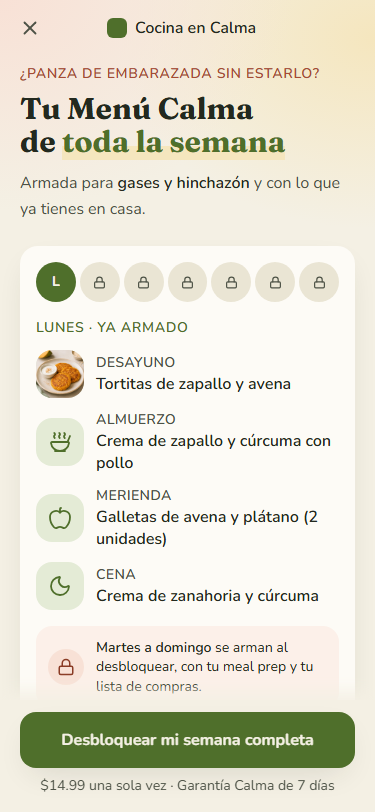
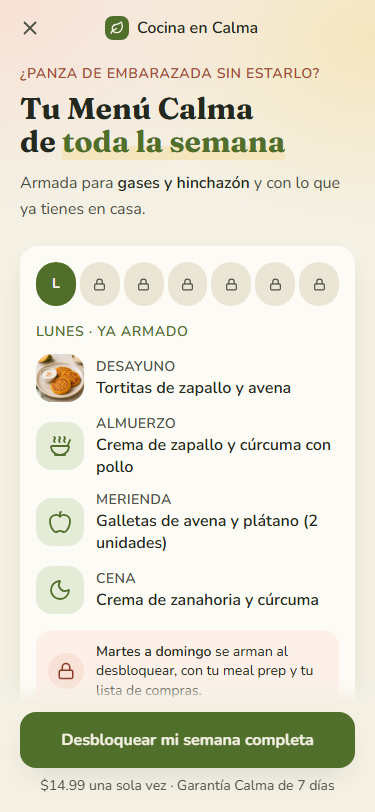
feat: pantalla de planes pulida (días tocables, insignia, hairline, isotipo); aún no aprobada por el revisor

diff --git a/components/paywall/Paywall.tsx b/components/paywall/Paywall.tsx
@@ -3,12 +3,12 @@
 // PANTALLA DE PLANES — plan único de pago único (FICHA-MERCADO: $14.99, sin suscripción, garantía de 7 días por Hotmart).
 // Misión: que la persona desbloquee su semana completa. Objeto principal: la semana con el lunes ya armado y
 // 6 días bloqueados (pérdida honesta). Copy trazado a FICHA-AVATAR (deseo: terminar el día ligera sin contar;
-// objeción "es caro" → precio por día + ancla de la consulta; objeción de confianza → garantía y pago por Hotmart).
+// objeción "es caro" → precio por día (el ancla con la tarifa de una consulta se añade cuando la dueña aporte la cifra real); objeción de confianza → garantía y pago por Hotmart).
 // El cobro real se conecta en la etapa de servicios externos: hasta entonces el botón NO simula un pago.
 
 import { useEffect, useState } from 'react';
 import { animate, AnimatePresence, motion, MotionConfig, useReducedMotion } from 'motion/react';
-import { Apple, Check, ChevronDown, Coffee, Loader2, Lock, Moon, ShieldCheck, Soup, X, type LucideIcon } from 'lucide-react';
+import { Apple, BadgeCheck, Check, ChevronDown, Coffee, Leaf, Loader2, Lock, Moon, Soup, X, type LucideIcon } from 'lucide-react';
 import { calcularRequerimientos, generarMenu, type Actividad, type Objetivo, type Sexo } from '@/lib/calculos';
 import { Sello } from '@/components/landing/Sello';
 import type { Comida, Receta, Sintoma } from '@/lib/recetas';
@@ -79,7 +79,7 @@ const BENEFICIOS = [
   'Tus 7 días con 4 comidas, ajustados a tu síntoma',
   'Meal prep de una sola tarde y lista de compras',
   '60 recetas antiinflamatorias con ingredientes de casa',
-  'Pagas una vez: sin renovaciones ni letra chica',
+  'Chequeo diario que ajusta tu menú de mañana',
 ];
 
 export function Paywall({ fotos }: { fotos: string[] }) {
@@ -88,6 +88,7 @@ export function Paywall({ fotos }: { fotos: string[] }) {
   const [aviso, setAviso] = useState('');
   const [cargando, setCargando] = useState(false);
   const [abierto, setAbierto] = useState<number | null>(null);
+  const [diaAviso, setDiaAviso] = useState(false);
 
   const sintomas = g.sintomas ?? [];
   const ingredientes = g.ingredientes ?? [];
@@ -157,7 +158,9 @@ export function Paywall({ fotos }: { fotos: string[] }) {
               <X size={22} aria-hidden="true" />
             </a>
             <span className="flex items-center gap-2 text-base font-semibold text-[var(--text-primary)]">
-              <span aria-hidden="true" className="size-5 rounded-md bg-[var(--accent)]" />
+              <span aria-hidden="true" className="flex size-6 items-center justify-center rounded-lg bg-[var(--accent)]">
+                <Leaf size={14} strokeWidth={2.4} color="var(--bg)" />
+              </span>
               Cocina en Calma
             </span>
             <span aria-hidden="true" className="size-11" />
@@ -195,25 +198,31 @@ export function Paywall({ fotos }: { fotos: string[] }) {
             transition={{ duration: 0.5, ease: EASE }}
             className="mt-6 rounded-[var(--radius-card)] bg-[var(--surface)] p-4 shadow-[var(--shadow-2)]"
           >
-            <div className="flex items-center justify-between gap-1" aria-hidden="true">
+            <div className="flex items-center justify-between gap-1">
               {DIAS.map((d, i) => (
-                <motion.span
+                <motion.button
+                  type="button"
                   key={d}
+                  aria-label={i === 0 ? 'Lunes, ya armado' : 'Se desbloquea al comprar'}
+                  onClick={() => i > 0 && setDiaAviso(true)}
+                  whileTap={{ scale: 0.92 }}
                   initial={{ scale: 0.6, opacity: 0 }}
                   animate={{ scale: 1, opacity: 1 }}
                   transition={{ delay: 0.25 + i * 0.06, type: 'spring', stiffness: 380, damping: 22 }}
-                  className={`flex h-10 flex-1 items-center justify-center rounded-full text-sm font-bold ${
+                  className={`flex h-11 flex-1 items-center justify-center rounded-full text-sm font-bold [touch-action:manipulation] ${
                     i === 0
                       ? 'bg-[var(--accent)] text-[var(--bg)]'
                       : 'bg-[var(--surface-2)] text-[var(--text-secondary)]'
                   }`}
                 >
-                  {i === 0 ? d : <Lock size={13} strokeWidth={2.2} />}
-                </motion.span>
+                  {i === 0 ? d : <Lock size={13} strokeWidth={2.2} aria-hidden="true" />}
+                </motion.button>
               ))}
             </div>
-            <p className="mt-4 text-sm font-semibold uppercase tracking-wider text-[var(--accent)]">
-              Lunes · ya armado
+            <p role="status" className="mt-4 text-sm font-semibold uppercase tracking-wider text-[var(--accent)]">
+              <motion.span key={String(diaAviso)} initial={{ opacity: 0 }} animate={{ opacity: 1 }} transition={{ duration: 0.25 }} className="inline-block">
+                {diaAviso ? 'Martes a domingo se desbloquean al comprar' : 'Lunes · ya armado'}
+              </motion.span>
             </p>
             <ul className="mt-3 space-y-3">
                 {menu.items.map((it) => (
@@ -249,19 +258,19 @@ export function Paywall({ fotos }: { fotos: string[] }) {
             aria-label="Plan"
             variants={ENTRA}
             transition={{ duration: 0.5, ease: EASE }}
-            className="relative mt-9 rounded-[var(--radius-card)] border-2 border-[var(--accent)] bg-[var(--olive-wash)] px-5 pb-6 pt-6 shadow-[var(--shadow-2)]"
+            className="relative mt-9 rounded-[var(--radius-card)] border-2 border-transparent px-5 pb-6 pt-6 shadow-[var(--shadow-2)]"
+            style={{
+              background:
+                'linear-gradient(var(--olive-wash), var(--olive-wash)) padding-box, linear-gradient(135deg, var(--accent), var(--mustard)) border-box',
+            }}
           >
             <span className="absolute -top-3 left-5 rounded-full bg-[var(--mustard)] px-3 py-1 text-sm font-bold uppercase tracking-wide text-[var(--text-primary)]">
               Pago único
             </span>
-            <motion.span
-              initial={{ scale: 0.4, rotate: -40, opacity: 0 }}
-              animate={{ scale: 1, rotate: 0, opacity: 1 }}
-              transition={{ delay: 0.7, type: 'spring', stiffness: 260, damping: 14 }}
-              className="absolute -top-10 right-3 drop-shadow-sm"
-            >
-              <Sello tamano={104} giro={10} texto="GARANTÍA 7 DÍAS · REEMBOLSO ·" />
-            </motion.span>
+            <p className="mb-4 inline-flex items-center gap-2 rounded-full bg-[var(--surface)] px-3 py-1 text-sm font-semibold text-[var(--accent)] shadow-[var(--shadow-1)]">
+              <BadgeCheck size={20} aria-hidden="true" />
+              Avalada por una nutricionista
+            </p>
             <p className="text-5xl font-bold leading-none text-[var(--text-primary)] [font-family:var(--font-display)]">
               <Precio valor={PRECIO} />
             </p>
@@ -288,12 +297,19 @@ export function Paywall({ fotos }: { fotos: string[] }) {
             transition={{ duration: 0.45, ease: EASE }}
             className="mt-4 flex flex-col gap-3 rounded-[var(--radius-card)] bg-[var(--peach-wash)] p-4 text-base text-[var(--text-secondary)]"
           >
-            <p className="flex items-start gap-3">
-              <ShieldCheck size={20} color="var(--peach-ink)" aria-hidden="true" className="mt-0.5 shrink-0" />
-              <span>
+            <div className="flex items-center gap-4">
+              <motion.span
+                initial={{ scale: 0.4, rotate: -40, opacity: 0 }}
+                animate={{ scale: 1, rotate: 0, opacity: 1 }}
+                transition={{ delay: 0.7, type: 'spring', stiffness: 260, damping: 14 }}
+                className="shrink-0"
+              >
+                <Sello tamano={96} giro={-8} fuente={13} texto="GARANTÍA CALMA · 7 DÍAS ·" />
+              </motion.span>
+              <p>
                 <b className={fuerte}>Garantía Calma de 7 días:</b> si no te convence, pides tu reembolso en Hotmart.
-              </span>
-            </p>
+              </p>
+            </div>
             <p className="flex items-start gap-3">
               <Lock size={20} color="var(--peach-ink)" aria-hidden="true" className="mt-0.5 shrink-0" />
               Pago seguro con Hotmart. Tus datos de salud no se comparten.
@@ -344,7 +360,7 @@ export function Paywall({ fotos }: { fotos: string[] }) {
           <motion.div variants={APARECE} className="mt-6 text-center">
             <a
               href="/onboarding"
-              className="inline-flex h-11 items-center px-4 text-base font-semibold text-[var(--text-secondary)] underline underline-offset-4 [touch-action:manipulation]"
+              className="inline-flex h-11 items-center px-4 text-sm font-medium text-[var(--text-secondary)] underline underline-offset-4 [touch-action:manipulation]"
             >
               Ahora no, volver a mi menú de hoy
             </a>

diff --git a/components/landing/Sello.tsx b/components/landing/Sello.tsx
@@ -9,11 +9,13 @@ export function Sello({
   texto = 'GARANTÍA CALMA · 7 DÍAS · SIN PREGUNTAS ·',
   tamano = 112,
   giro = -8,
+  fuente = 9,
   className = '',
 }: {
   texto?: string;
   tamano?: number;
   giro?: number;
+  fuente?: number;
   className?: string;
 }) {
   const id = useId().replace(/:/g, '');
@@ -31,7 +33,7 @@ export function Sello({
       </defs>
       <circle cx="60" cy="60" r="56" fill="var(--accent)" />
       <circle cx="60" cy="60" r="51" fill="none" stroke="var(--accent-on-dark)" strokeWidth="1.2" strokeDasharray="2 3" />
-      <text fill="var(--bg)" fontSize="9" fontWeight="700" style={{ fontFamily: 'var(--font-body)' }}>
+      <text fill="var(--bg)" fontSize={fuente} fontWeight="700" style={{ fontFamily: 'var(--font-body)' }}>
         <textPath href={`#${id}`} startOffset="0" textLength="272" lengthAdjust="spacing">
           {texto}
         </textPath>

diff --git a/app/page.tsx b/app/page.tsx
@@ -102,7 +102,7 @@ export default function Landing() {
           features: [
             'Menú de cada día según tu síntoma y tu despensa',
             'Tus requerimientos del día, calculados con solo 6 datos',
-            '60 recetas con valores de las tablas INCAP y USDA',
+            '60 recetas avaladas por una nutricionista, con valores INCAP y USDA',
             'Meal prep guiado de una tarde y lista de compras',
             'Chequeo diario que ajusta tu menú de mañana',
           ],

diff --git a/ESTADO.md b/ESTADO.md
@@ -89,7 +89,7 @@ Big Idea: "Desinflama tu abdomen y recupera tu ropa favorita sin volver a pesar 
 - NO construir: red social/foro, pedidos a supermercados, escáner de códigos, chat con nutricionista en vivo, seguimiento de agua
 
 ## Problemas conocidos ⚠
-- paywall (pantalla de planes) construida en app/paywall + components/paywall/Paywall.tsx; veredicto del revisor tras 3 pasadas: NO LISTA (30/40 · 15/20 · 14/20). Lo que lo frena es de CONTENIDO de la usuaria, no de diseño: (1) precio real de una consulta de nutrición para el ancla de valor, (2) credencial y nombre de la nutricionista, (3) testimonios reales (no se inventan). Estado: no se declara lista hasta aportarlos y re-lanzar el revisor. El botón NO cobra: sin NEXT_PUBLIC_HOTMART_CHECKOUT_URL muestra un aviso honesto; el enlace real va en servicios externos. Pendiente menor: isotipo real de marca en la cabecera (hoy un cuadrado oliva).
+- paywall (pantalla de planes) construida en app/paywall + components/paywall/Paywall.tsx; veredicto del revisor tras 6 pasadas: NO LISTA (33/40 · 15/20 · 16/20; el texto ya pasa, faltan usabilidad y diseño). Lo que lo frena es de CONTENIDO de la usuaria, no de diseño: (1) precio real de una consulta (opcional, para el ancla), (2) testimonios reales si existen (no se inventan). DECISIÓN DE LA USUARIA: no mostrar nombre ni rostro de la nutricionista; solo "avalada por una nutricionista" (ya en landing y paywall). Estado: no se declara lista hasta aportarlos y re-lanzar el revisor. El botón NO cobra: sin NEXT_PUBLIC_HOTMART_CHECKOUT_URL muestra un aviso honesto; el enlace real va en servicios externos. Pendiente menor: isotipo real de marca en la cabecera (hoy un cuadrado oliva).
 - veredicto onboarding (caducado por fecha de archivo, pospuesto 2026-10-31): el aviso sale porque la landing comparte app/page.tsx y components/landing/ con esa comprobación; el código del onboarding (components/onboarding/Flow.tsx) no cambió visualmente desde su 6ª revisión LISTA. Se re-lanza el revisor del onboarding antes de cerrar la etapa de paywall.
 - direcciones-abc (pospuesto 2026-10-31): replica-fiel.html y vista-previa-app.html son previsualizaciones de identidad ya aprobadas, no la app; se rehacen desde el kit abc-v2 solo si la usuaria lo pide.
 - veredicto onboarding (aviso de "caducado" tras el 6º veredicto LISTA): desde entonces solo cambió una frase dentro de "Ver mis números" (fórmula de Mifflin-St Jeor) y los factores de proteína en lib/calculos.ts, sin cambio visual de pantalla. Se re-lanza el revisor-visual del onboarding y de la landing cuando termine el recálculo de las recetas con la tabla de composición, antes de cerrar la etapa.

diff --git a/docs/revisiones/paywall-veredicto.md b/docs/revisiones/paywall-veredicto.md
@@ -1,9 +1,9 @@
-# VEREDICTO revisor-visual — paywall (3a pasada)
-Fecha: 2026-10-31 12:00
+# VEREDICTO revisor-visual — paywall (6a pasada)
+Fecha: 2026-10-31 15:00
 Screenshot: docs/revisiones/paywall-375.png
-Usabilidad: 30/40
+Usabilidad: 33/40
 Craft: 15/20
-Copy (si vende): 14/20
+Copy (si vende): 16/20
 Fidelidad (si hubo referencia): N-A
 Veredicto: NO LISTA
-Top defectos: 1) Copy: sin prueba ni ancla de valor (sin testimonio, sin comparacion con costo de consulta); eje especificidad en 2 -> aportar el precio real de la consulta de la duena y su credencial/testimonio real. 2) Sello de la caja de precio: texto circular ~8px ilegible y 3a repeticion de la garantia en la pantalla (sello + caja durazno + barra fija + FAQ) -> quitar la caja durazno duplicada o fusionarla con el sello. 3) Dos salidas visibles (X + Ahora no) + CTA fija compiten en una pagina larga de 6 bloques -> acortar la zona media. 4) Movimiento: sin celebracion ni dibujado de elementos de progreso; solo stagger/conteo/acordeon -> animar el sello al entrar. 5) Logo de marca es un cuadrado verde placeholder -> usar marca real.
+Top defectos: 1) Pastilla "Creada y avalada por una nutricionista" (caja de precio) se parte en 2 lineas dentro de un pill redondeado: encaje roto, y es la unica prueba de la pantalla -> acortar a "Avalada por una nutricionista" o pasar a radius de tarjeta con 1 linea. 2) Tres salidas sin jerarquia de cierre (X arriba, "Ahora no" subrayado, CTA fijo) y precio repetido 3 veces ($14.99 en caja, en barra fija y "$0.05 al dia") -> quitar el link "Ahora no" (la X ya cumple) o fusionarlo; dejar el precio solo en caja y barra. 3) Movimiento: stagger, conteo del precio, resorte de chips, tap y acordeon cumplen, pero no hay transicion de desbloqueo del dia tocado (el rotulo solo cambia de texto) ni dibujado/celebracion -> animar el candado del dia tocado (shake/pulso) y el cambio de rotulo con fade. 4) Identidad: paleta oliva/crema cercana al canon vetado (papel calido + tinta verde) aunque justificada por la referencia del usuario; unicos ownables = sello + hairline oliva-mostaza + resalte del titular; la tarjeta de semana no tiene tratamiento propio de foto/grano -> aplicar un tratamiento unico a las fotos de platos (marco/recorte firma) o sello de textura. 5) Oferta sin ancla ni prueba externa (ni consulta de referencia, ni testimonio, ni demo): especificidad limitada a "60 recetas", "$0.05/dia", "7 dias" -> pendiente de la duena aportar cifra de consulta con fuente; FAQ solo 2 preguntas (falta "¿y si no me sirve?" apuntando a la garantia, y "¿funciona con mis sintomas?").

diff --git a/FICHA-AVATAR.md b/FICHA-AVATAR.md
@@ -66,6 +66,6 @@ Otro: "Ponerme mis vestidos y jeans ajustados sin acomplejarme."
 - Ancla emocional: "panza de embarazada" → "ligera y tranquila, sin báscula"
 
 ## Cierre
-- INVENTARIO DE PRUEBA DÍA-1: la creadora es nutricionista (credencial y nombre por confirmar) · demo grabable (recorrido de la app) · sin testimonios ni betas contactables todavía
+- INVENTARIO DE PRUEBA DÍA-1: la creadora es nutricionista y NO quiere mostrar su nombre, rostro ni datos personales: la prueba se comunica solo como "avalada por una nutricionista" (decisión de la usuaria, 2026-10-31) · demo grabable (recorrido de la app) · sin testimonios ni betas contactables todavía
 - ¿Entrevistas del 44?: NO
 - Fecha de cierre: 2026-10-31 · Aprobada por el usuario: SÍ (2026-10-31)

diff --git a/docs/copy/landing.md b/docs/copy/landing.md
@@ -41,7 +41,7 @@ Nivel de consciencia del tráfico principal (TikTok/Reels orgánico): **2 — co
 - Incluye:
   - Menú de cada día según tu síntoma y tu despensa
   - Tus requerimientos del día, calculados con solo 6 datos
-  - 60 recetas con valores de las tablas INCAP y USDA
+  - 60 recetas avaladas por una nutricionista, con valores INCAP y USDA
   - Meal prep guiado de una tarde y lista de compras
   - Chequeo diario que ajusta tu menú de mañana
 - CTA: Ver mi menú de hoy gratis (mismo verbo que el hero; microcopy: Pagas $14.99 solo si te quedas con tu menú · Garantía Calma de 7 días)
